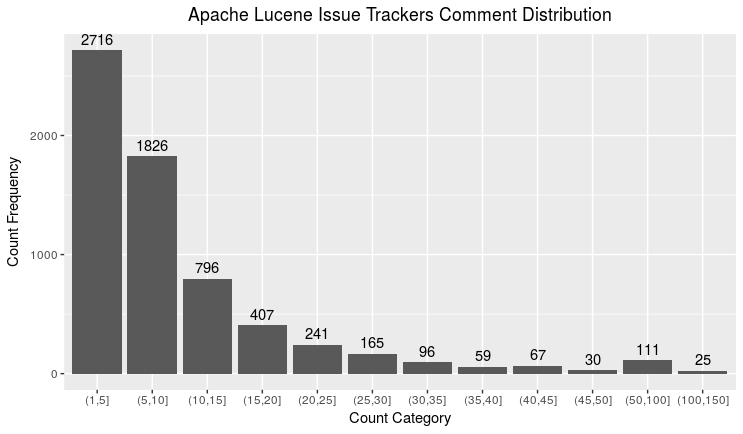
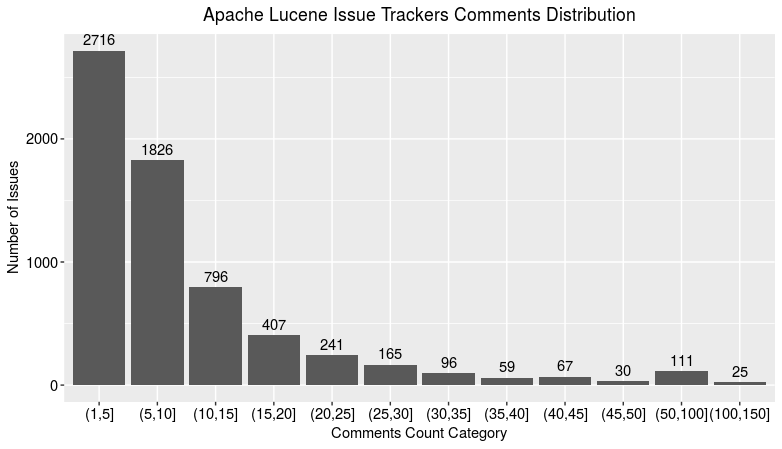
Report: Updated Chapter 3 Graphs

diff --git a/thesis-template-master/thesis.tex b/thesis-template-master/thesis.tex
@@ -616,9 +616,9 @@ For quick analysis of results and neat data visualizations, R programming langua
 
 \chapter{Data Collection}
 
-This chapter describes the datasets used to carry out the research and the collection of data from the three sources: Apache Lucene, Mozilla Thunderbird and Ubuntu. All three sources mentioned use different issue trackers. Apache Lucene uses JIRA owned by Atlassian Inc., Mozilla Thunderbird uses Bugzilla developed by Mozilla Foundation and Ubuntu uses Launchpad created by Canonical Ltd. 
+This chapter describes the datasets used to carry out the research and the collection of data from the OSS projects: Apache Lucene, Mozilla Thunderbird and Ubuntu. All three sources mentioned use different issue trackers. Apache Lucene uses JIRA owned by Atlassian Inc., Mozilla Thunderbird uses Bugzilla developed by Mozilla Foundation and Ubuntu uses Launchpad created by Canonical Ltd. 
 \newline \newline
-There are multiple reasons why these projects have specifically been chosen. First of all, the projects chosen are all completely open sourced. Studying and analysing the data from open sourced projects, especially the ones from Apache Software Foundation (ASF) has been a common practice in the research community. In the past, Bacchelli et al.\cite{Bacchelli2012} used data from Apache Mina to classify development emails. Ortu et al.\cite{Ortu2015} studied the JIRA repository dataset of ASF. Panichella et al. \cite{Panichella2014} roped in the datasets from Apache HTTPD, CXF and Lucene. Besides datasets from ASF, the same authors mentioned in this paragraph have also used other projects such as JBoss, Spring and Hibernate. Additionally, these projects also have been around for quite a long time, have a large community that is active, and have been making releases from time to time. Another reason for choosing such projects is that while scraping data, the author of the scraper needs to respect the rules of the website. At the time of scraping, these websites did not impose any kind of restrictions on the data that had to be fetched; as a matter of fact, JIRA tracker of Apache Lucene also provided with readily available data for download. The final reason for choosing these projects is also to continue a research work done by \cite{Nonnenmacher2017} in his master thesis where he extracted rationale from IRC messages. This master thesis also uses his dataset which is described in Section 3.2. 
+There are multiple reasons why these projects have specifically been chosen. First of all, the projects chosen are all completely open sourced. Studying and analysing the data from open sourced projects, especially the ones from Apache Software Foundation (ASF) has been a common practice in the research community. In the past, Bacchelli et al.\cite{Bacchelli2012} used data from Apache Mina to classify development emails. Ortu et al.\cite{Ortu2015} studied the JIRA repository dataset of ASF. Panichella et al. \cite{Panichella2014} roped in the datasets from Apache HTTPD, CXF and Lucene. Besides datasets from ASF, the same authors mentioned in this paragraph have also used other projects such as JBoss, Spring and Hibernate. Additionally, these projects also have been around for quite a long time, have a large community that is active, and have been making releases from time to time. Another reason for choosing such projects is that while scraping data, the author of the scraper needs to respect the rules of the website. Besides the aforementioned reasons, the datasets of these OSS projects were publicly available. The final reason for choosing these projects is also to continue a research work done by \cite{Nonnenmacher2017} in his master thesis where he extracted rationale from IRC messages. This master thesis also uses his dataset which is described in Section 3.2. 
 
 \section{Issue Trackers Dataset}
 This section investigates how data was obtained from issue trackers of Apache Lucene, Mozilla Thunderbird and Ubuntu. In addition, Table \ref{tab:rawIssueTrackers} shows the figures of the raw dataset. 
@@ -644,11 +644,11 @@ This section investigates how data was obtained from issue trackers of Apache Lu
 \subsubsection{Apache Lucene}
 Apache Lucene\footnote{\url{https://lucene.apache.org/}} is an open sourced high performance text search engine written in Java by Doug Cutting in 1999. The project was donated to Apache Foundation\footnote{\url{https://www.apache.org/}} in the year 2001. To develop and maintain the software, the issue tracker called JIRA\footnote{\url{https://www.atlassian.com/software/jira}} developed by Atlassian\footnote{\url{https://www.atlassian.com}} is used. At the time of conducting this research, the total number of issues were 7,940. However, only 7,932 issues were fetched since some issues could have been deleted by the moderators, contained non-English characters or had no comments.
 \newline \newline
-In JIRA, each issue gives us an option to export all the data needed for the research in XML, JSON or Word. However, JIRA also provides a link to get all these information needed for upto 1,000 issues in XML. This link was altered 8 times to cover 7,932 issues. The XML data from the links were saved locally as XML files. The XML ElementTree API available for Python was used to parse the XML files and extract the necessary data. Figure \ref{fig:luceneRawDistro} shows the distribution of comments for Apache Lucene dataset. 
+In JIRA, each issue gives us an option to export all the data needed for the research in XML, JSON or Word. However, JIRA also provides a link to get all these information needed for upto 1,000 issues in XML. This link was altered 8 times to cover 7,932 issues. The XML data from the links were saved locally as XML files. The XML ElementTree API available for Python was used to parse the XML files to extract necessary data. Figure \ref{fig:luceneRawDistro} shows the distribution of number of comments per issue for Apache Lucene dataset. 
 
 \begin{figure}[h] %b!]
     \centering
-    \includegraphics[width=14cm]{lucene-comment-distribution-raw}
+    \includegraphics[width=13cm]{lucene-comment-distribution-raw}
     \caption{Overview of distribution of comments for Apache Lucene}
     \label{fig:luceneRawDistro}
 \end{figure}
@@ -656,11 +656,11 @@ In JIRA, each issue gives us an option to export all the data needed for the res
 \subsubsection{Mozilla Thunderbird}
 Mozilla Thunderbird\footnote{\url{https://www.mozilla.org/en-US/thunderbird/}} is an open sourced cross platform email client developed by Mozilla Foundation\footnote{\url{https://www.mozilla.org/en-US/}} with initial release dating back to 2003. The issue tracker used by Mozilla Thunderbird is Bugzilla\footnote{\url{https://bugzilla.mozilla.org/}} which was developed by Mozilla Foundation itself. The oldest issue, however, dates back to June 2007 and the number of issues fetched were 4,367. Like Apache Lucene, issues with no comments were ignored. 
 \newline \newline
-As mentioned earlier, JIRA gave us the option to get all the data needed for upto 1,000 issues on each request. However, Bugzilla did not have any option that was similar. In the case of Bugzilla, data for each issue had to be accessed individually. Another drawback of Bugzilla when compared to JIRA was that the data when exported did not have the comments for the relevant issues. Hence, all the necessary data, including the comments, for the issues in Bugzilla were scraped using BeautifulSoup, a library for Python to scrape data from the web. Figure \ref{fig:thunderbirdRawDistro} shows the distribution of comments for Mozilla Thunderbird dataset. 
+As mentioned earlier, JIRA gave us the option to get all the data needed for upto 1,000 issues on each request. However, Bugzilla did not have any option that was similar. In the case of Bugzilla, data for each issue had to be accessed individually. Another drawback of Bugzilla when compared to JIRA was that the data when exported did not have the comments for the relevant issues. Hence, all the necessary data, including the comments, for the issues in Bugzilla were scraped using BeautifulSoup, a library for Python to scrape data from the web. Figure \ref{fig:thunderbirdRawDistro} shows the distribution of number of comments per issue for Mozilla Thunderbird dataset. 
 
 \begin{figure}[h] %b!]
     \centering
-    \includegraphics[width=14cm]{thunderbird-comment-distribution-raw}
+    \includegraphics[width=13cm]{thunderbird-comment-distribution-raw}
     \caption{Overview of distribution of comments for Mozilla Thunderbird}
     \label{fig:thunderbirdRawDistro}
 \end{figure}
@@ -668,15 +668,15 @@ As mentioned earlier, JIRA gave us the option to get all the data needed for upt
 \subsubsection{Ubuntu}
 Ubuntu\footnote{\url{https://www.ubuntu.com/}} is an open sourced operating system developed by Canonical Ltd.\footnote{\url{https://www.canonical.com/}} in the year 2004. The same team is also responsible for having their own issue tracking system known as Launchpad\footnote{\url{https://launchpad.net/}} which also houses the issues of Ubuntu. The number of issues fetched since the beginning of the project are 28,429. Issues with no comments were not scraped, just like in the case of Apache Lucene and Mozilla Thunderbird. Additionally, a major problem faced while scraping data from Launchpad was that there were abundant number of downlinks. When these links were accessed manually, they kept loading until getting timed out and returned 404 error while scraping.
 \newline \newline
-Launchpad did not have its export option to fetch mass number of issues and its comments. Hence, each and every issue had to be scraped one at a time. In addition, not all the issues had the same HTML tags and attributes for the comments section. Launchpad provides individual link for each of the comment of the pertinent issue and hence, the comments were scraped by obtaining the individual links for comments. All the links were requested and the necessary data was retrieved using BeautifulSoup, the library mentioned in the previous section. Figure \ref{fig:ubuntuRawDistro} shows the distribution of comments for Ubuntu dataset. 
+Launchpad did not have its export option to fetch mass number of issues and its comments. Hence, each and every issue had to be scraped one at a time. In addition, not all the issues had the same HTML tags and attributes for the comments section. Launchpad provides individual link for each of the comment of the pertinent issue and hence comments were scraped by obtaining the individual links. All the links were requested and the necessary data was retrieved using BeautifulSoup. Figure \ref{fig:ubuntuRawDistro} shows the distribution of number of comments per issue for Ubuntu dataset. 
 
 \begin{figure}[h] %b!]
     \centering
-    \includegraphics[width=14cm]{ubuntu-comment-distribution-raw}
+    \includegraphics[width=13cm]{ubuntu-comment-distribution-raw}
     \caption{Overview of distribution of comments for Ubuntu}
     \label{fig:ubuntuRawDistro}
 \end{figure}
-
+ 
 %\subsection{Commit Logs Dataset}
 %This section scrutinizes how the data of commit messages were obtained for Apache Lucene, Mozilla Thunderbird and Ubuntu.
 
@@ -691,8 +691,8 @@ Launchpad did not have its export option to fetch mass number of issues and its 
 
 \section{IRC Messages Dataset}
 
-The IRC messages dataset has been scraped by Nonnenmacher \cite{Nonnenmacher2017} for his thesis where he has extracted rationale out of the same. The duration until which the data was collected slightly varies with that of issue trackers dataset due to the timeline of research. Comments for issue trackers were scraped until August 2017 while messages from IRC were scraped until May 2017. The following data in Table \ref{tab:rawIRCMessages} are the statistics of the raw data collected. 
-\newline
+The IRC messages dataset has been scraped by Nonnenmacher \cite{Nonnenmacher2017} for his thesis where he has extracted rationale out of the same. For other details regarding IRC messages, the work of Nonnenmacher \cite{Nonnenmacher2017} is referred to. The data in Table \ref{tab:rawIRCMessages} are the statistics of the raw data collected by Nonnenmacher. 
+
 \begin{table} %[hb!]
     \centering
     \begin{adjustbox}{max width=\columnwidth}
